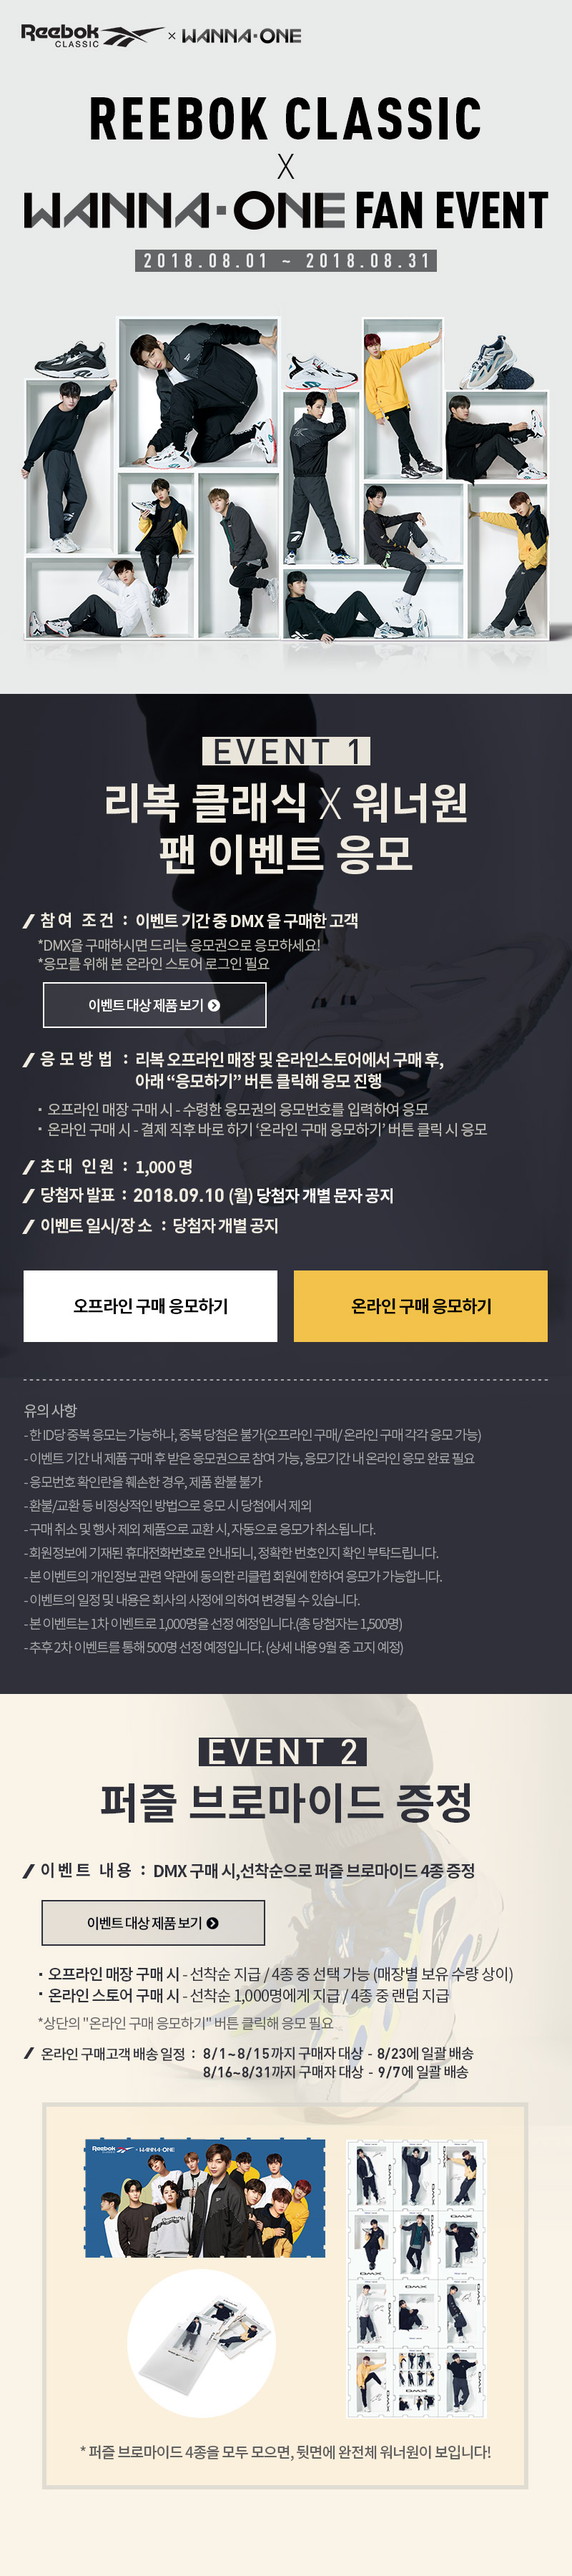
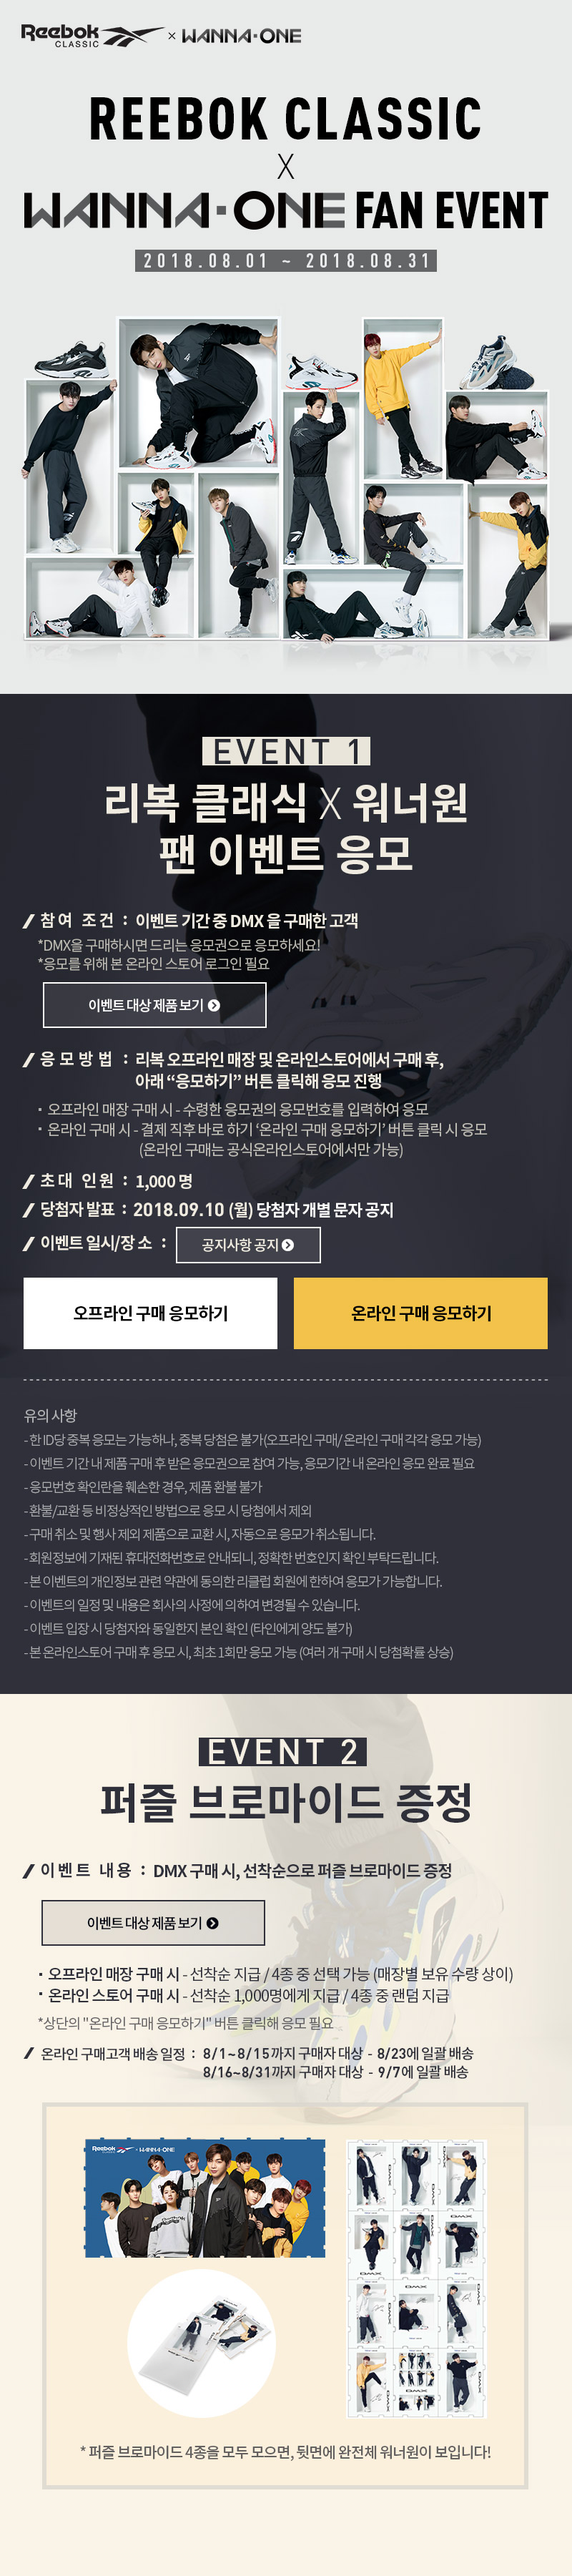
리복 - dmx 공지버튼추가

diff --git a/app/html/reebok/campaign/5205/index.html b/app/html/reebok/campaign/5205/index.html
@@ -368,8 +368,9 @@
 
 				<!-- //promotion -->
 				<div style="position:relative">
-					<img src="http://imagem.reebok.co.kr/upload/campaign/reebok/5205/m/1807_r_dmx_MO.jpg" alt="" style="width:100%"/>
+					<img src="http://imagem.reebok.co.kr/upload/campaign/reebok/5205/m/1807_r_dmx_MO.jpg" alt="" style="width:100%"/>					
 					<a href="http://m.reebok.co.kr/MO/Promotion/landingPage.action?pageNo=651" style="display:block;position:absolute;width:38%;height:1.7%;top:38.1%;left:8%;text-indent: -3000px;">이벤트 대상 제품 보기</a>
+					<a href="http://m.reebok.co.kr/MO/Notify/notiDetailList.action" style="display:block;position:absolute;width:25%;height:1.4%;top:47.6%;left:31%;text-indent: -3000px;">공지사항 공지</a>
 					<a href="#; none;" class="btn_entry2" style="display:block;position:absolute;width:44.5%;height:2.8%;top:49.3%;left:4%;text-indent: -3000px;">온라인 구매 응모하기</a>
 					<a href="#; none;" class="btn_entry1" style="display:block;position:absolute;width:44.5%;height:2.8%;top:49.3%;right:4%;text-indent: -3000px;">오프라인 구매 응모하기</a>
 					<a href="http://m.reebok.co.kr/MO/Promotion/landingPage.action?pageNo=651" style="display:block;position:absolute;width:38%;height:1.7%;top:73.8%;left:8%;text-indent: -3000px;">이벤트 대상 제품 보기</a>
